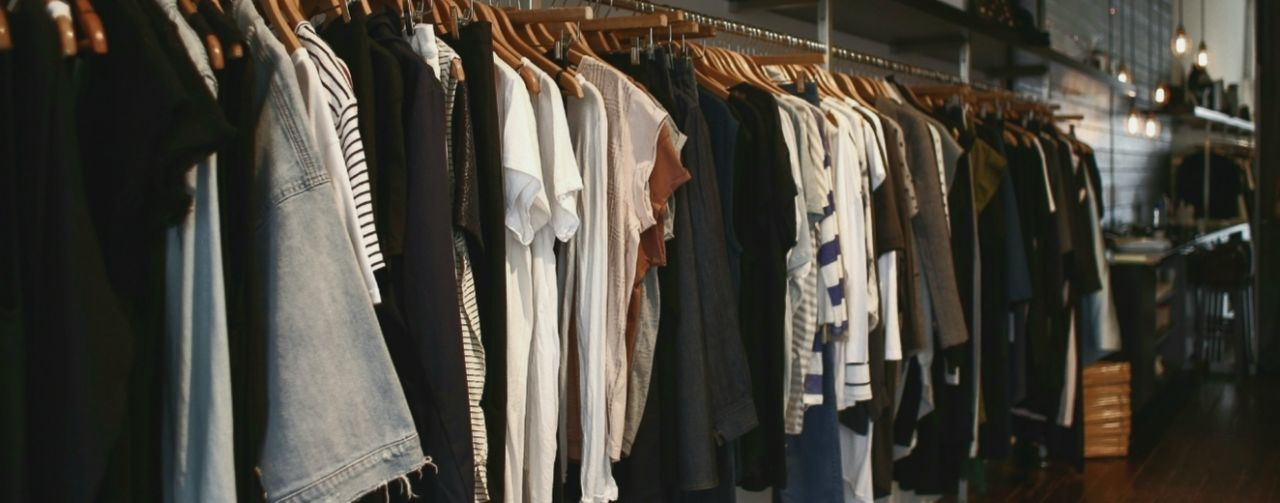
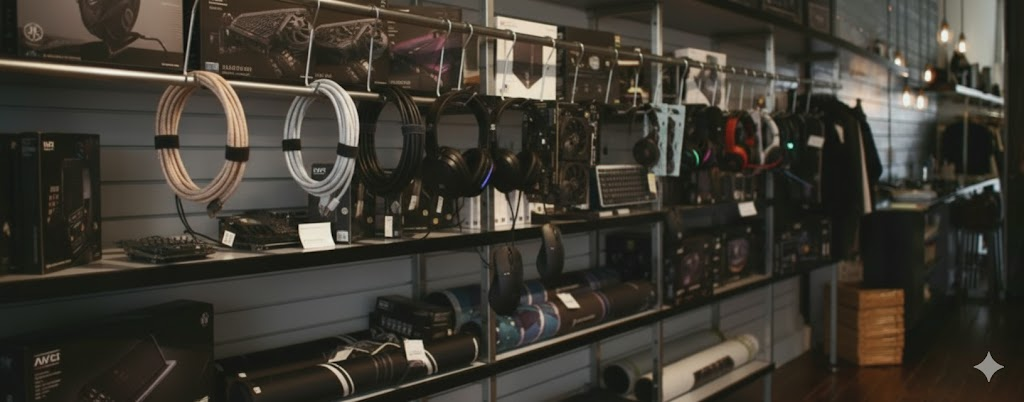
all

diff --git a/resources/views/user/layouts/master.blade.php b/resources/views/user/layouts/master.blade.php
@@ -56,9 +56,9 @@
                 </button>
                 <div class="collapse navbar-collapse" id="navbarCollapse">
                     <div class="navbar-nav mx-auto">
-                        <a href="" class="nav-item nav-link ">Shop</a>
-                        <a href="" class="nav-item nav-link">Cart</a>
-                        <a href="#" class="nav-item nav-link">Contact</a>
+                        <a href="" class="nav-item nav-link ">Policy</a>
+                        <a href="" class="nav-item nav-link">About us</a>
+                        <a href="#" class="nav-item nav-link">Contact us</a>
                     </div>
                     <div class="d-flex align-items-center justify-content-end">
 
@@ -104,7 +104,6 @@
                                     <span>{{ Auth::user()->name != null ? Auth::user()->name : Auth::user()->nickname }}</span>
                                 </a>
                                 <div class="dropdown-menu dropdown-menu-end m-0 rounded border">
-                                    <a href="" class="dropdown-item py-2 text-muted">My Orders</a>
                                     <a href="#" class="dropdown-item py-2 text-muted">Edit Profile</a>
                                     <a href="#" class="dropdown-item py-2 text-muted">Change Password</a>
 
@@ -130,20 +129,7 @@
 
     @yield('content')
     <!-- Notification Modal -->
-    <div class="modal fade" id="notificationModal" tabindex="-1" aria-labelledby="notificationModalLabel"
-        aria-hidden="true">
-        <div class="modal-dialog modal-dialog-scrollable" style="max-width: 400px;">
-            <div class="modal-content">
-                <div class="modal-header">
-                    <h5 class="modal-title">Order Notifications</h5>
-                    <button type="button" class="btn-close" data-bs-dismiss="modal"></button>
-                </div>
-                <div class="modal-body" id="notificationList">
-                    <div class="text-center text-muted">Loading...</div>
-                </div>
-            </div>
-        </div>
-    </div>
+
 
     {{-- sweet alert laravel configuration --}}
     @include('sweetalert::alert')
@@ -179,9 +165,9 @@
                 <!-- Payments (Vertical) -->
                 <div class="col-md-4 d-flex flex-column align-items-start">
                     <div class="mb-2 fw-bold">Payments:</div>
-                    <img src="img/kpay.png" alt="KPay" style="height:30px;" class="mb-1">
-                    <img src="img/wavepay.png" alt="WavePay" style="height:30px;" class="mb-1">
-                    <img src="img/cbpay.png" alt="CbPay" style="height:30px;">
+                    <img src="{{asset('paymentMethods/KBZpay.png')}}" alt="KPay" style="width:45px; height:45px; object-fit:cover;" class="mb-1">
+                    <img src="{{asset('paymentMethods/CBpay.png')}}" alt="WavePay" style="width:45px; height:45px; object-fit:cover;" class="mb-1">
+                    <img src="{{asset('paymentMethods/AYApay.png')}}" alt="CbPay" style="width:45px; height:45px; object-fit:cover;">
                 </div>
             </div>
         </div>
@@ -194,23 +180,12 @@
         <div class="container">
             <div class="row">
                 <div class="col-md-6 text-center text-md-start mb-3 mb-md-0">
-                    <span class="text-light"><a href="#"><i class="fas fa-copyright text-light me-2"></i>Your
-                            Site
-                            Name</a>, All right reserved.</span>
-                </div>
-                <div class="col-md-6 my-auto text-center text-md-end text-white">
-                    <!--/*** This template is free as long as you keep the below author’s credit link/attribution link/backlink. ***/-->
-                    <!--/*** If you'd like to use the template without the below author’s credit link/attribution link/backlink, ***/-->
-                    <!--/*** you can purchase the Credit Removal License from "https://htmlcodex.com/credit-removal". ***/-->
-                    {{-- Designed By <a class="border-bottom" href="https://htmlcodex.com">HTML Codex</a> Distributed By
-                    <a class="border-bottom" href="https://themewagon.com">ThemeWagon</a> --}}
+                    <span class="text-light"><a href="#"><i class="fas fa-copyright text-light me-2"></i>IT Mart</a>, All right reserved.</span>
                 </div>
             </div>
         </div>
     </div>
     <!-- Copyright End -->
-
-
 
     <!-- Back to Top -->
     <div class="scroll-top-to">
@@ -218,8 +193,6 @@
     </div>
     <!-- <a href="#" class="btn btn-primary border-3 border-primary rounded-circle back-to-top"><i
             class="fa fa-arrow-up"></i></a> -->
-
-
     <!-- JavaScript Libraries -->
     <script src="https://cdnjs.cloudflare.com/ajax/libs/jquery/3.7.1/jquery.min.js"
         integrity="sha512-v2CJ7UaYy4JwqLDIrZUI/4hqeoQieOmAZNXBeQyjo21dadnwR+8ZaIJVT8EE2iyI61OV8e6M8PP2/4hpQINQ/g=="
@@ -265,29 +238,6 @@
             // Auto refresh every 10s
             setInterval(fetchNotifications, 10000);
         });
-        // $('#notification-bell').click(function(e) {
-        //     e.preventDefault(); // prevent following the link
-
-        //     $.ajax({
-        //         url: "/user/notifications/mark-all-read",
-        //         type: "POST",
-        //         data: {
-        //             _token: "{{ csrf_token() }}"
-        //         },
-        //         success: function(res) {
-        //             if (res.success) {
-        //                 // Hide notification dot and count
-        //                 $('#notification-dot').hide();
-        //                 $('#notification-count').text(0).hide();
-        //                 console.log('All notifications marked as read!');
-        //             }
-        //         },
-        //         error: function(err) {
-        //             console.error('Error marking notifications read:', err);
-        //         }
-        //     });
-
-        // });
     </script>
 
     @yield('js')

diff --git a/resources/views/user/home/userHomePage.blade.php b/resources/views/user/home/userHomePage.blade.php
@@ -24,27 +24,6 @@
                         <div class="content-block">
                             <h1>Click, Cart, Celebrate</h1>
                             <p>Welcome to our shop! Explore everything we have to offer <br> we guarantee your complete satisfaction with every purchase.</p>
-                            {{-- <div class="short-popular-category-list text-center">
-                                <h2>Popular Category</h2>
-                                <ul class="list-inline">
-                                    <li class="list-inline-item">
-                                        <a href="category.html"><i class="fa fa-bed"></i> Hotel</a>
-                                    </li>
-                                    <li class="list-inline-item">
-                                        <a href="category.html"><i class="fa fa-grav"></i> Fitness</a>
-                                    </li>
-                                    <li class="list-inline-item">
-                                        <a href="category.html"><i class="fa fa-car"></i> Cars</a>
-                                    </li>
-                                    <li class="list-inline-item">
-                                        <a href="category.html"><i class="fa fa-cutlery"></i> Restaurants</a>
-                                    </li>
-                                    <li class="list-inline-item">
-                                        <a href="category.html"><i class="fa fa-coffee"></i> Cafe</a>
-                                    </li>
-                                </ul>
-                            </div> --}}
-
                         </div>
                         <!-- Advance Search -->
                         <div class="advance-search">
